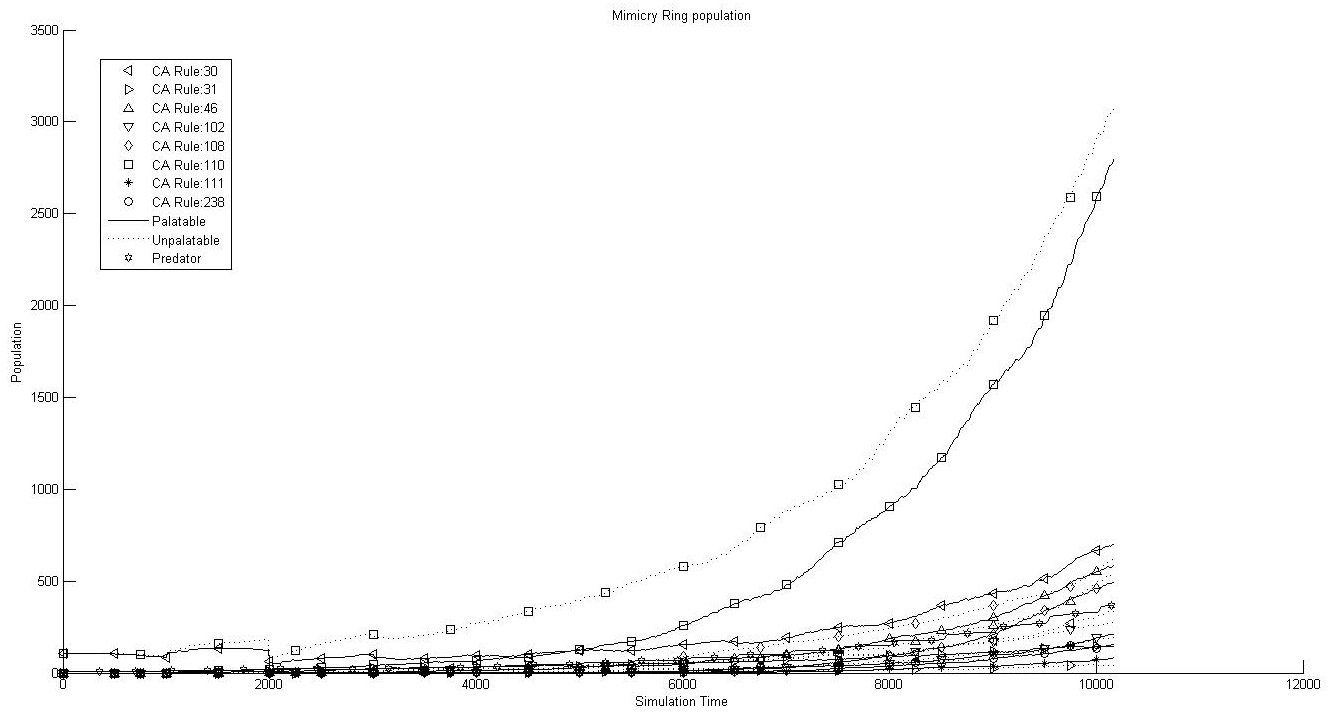
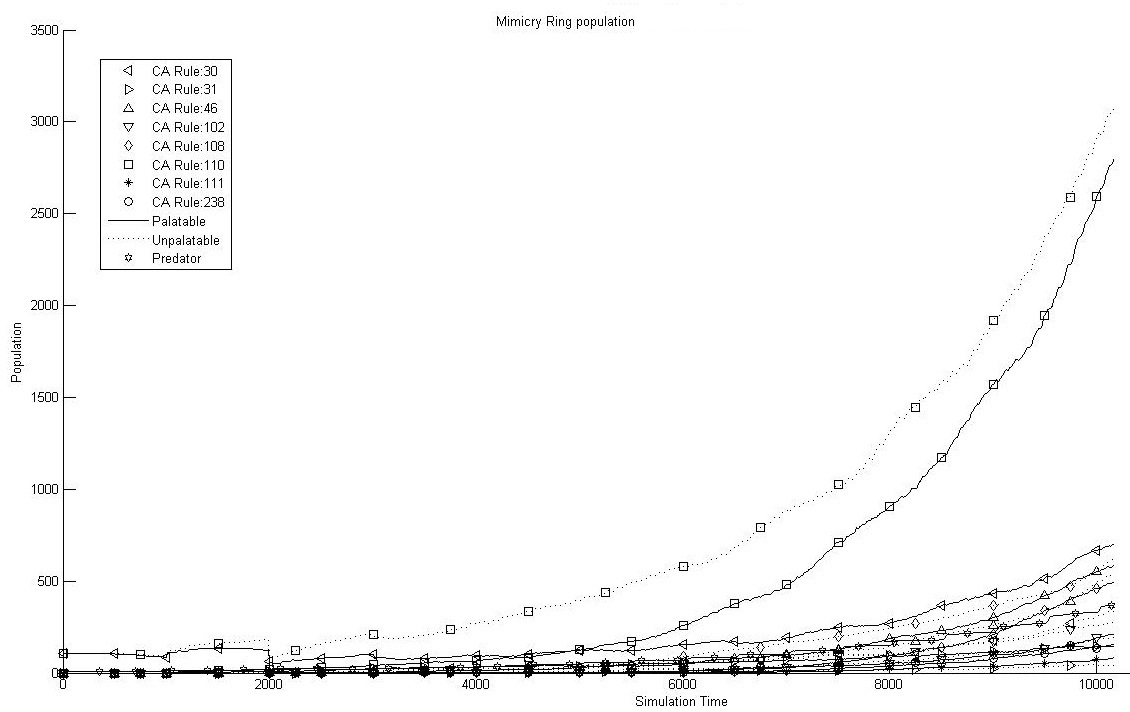
Documentation update

diff --git a/docs/tex/result.tex b/docs/tex/result.tex
@@ -2,13 +2,14 @@
 \chapter{Results and Analysis}
 
 \section{Introduction}
-It is always a challenge to extract and analyze data from an Artificial Life simulation. 
+It is always a challenge to extract and analyze data from an Artificial Life simulation. Data and analysis in this simulation has been concentrated on evaluating whether evolution of mimicry has taken place. This evaluation can be made with the number of different rings that has been created and the size of each of those rings along with the population of palatable and unpalatable species. Also it can be established whether Batesian Mimicry and Mullerian Mimicry has taken effect by analyzing the data set of these populations.
 
-\section{Mimicry Rings Reports}
+\section{Mimicry Ring Reports}
+The mimicry ring reports consists entirely of the population of prey species categorized according to patterns and palatability. Data is stored at every instance of time of the simulation keeping an interval of 10 iterations. As the number of rings that get generated reaches as many as 50 or more, and all the population of ring do not last for the entire simulation, so while storing data we have taken the most populous of the surviving 8 rings to plot. Parameters are mentioned in Table \ref{tab:ring-report-control-parameters}.
 
 \begin{table}[H]
 \centering
-\begin{tabular}{| p{2.0cm} | >{\centering} p{2.2cm} | p{8cm} |}
+\begin{tabular}{| p{2cm} | >{\centering} p{2.2cm} | p{8cm} |}
 	\hline
 		\textbf{Parameter} & \textbf{Value} & \textbf{Description} \\ \hline
 		Mimicry Ring Hamming Distance & 10 \% of the Pattern Size & If the Hamming distance between the pattern of the model and the mimic is 10 \% the size of the pattern then they are considered within the same ring.\\ \hline
@@ -59,12 +60,12 @@ Now as we know the behaviour of Hopfield memory, a recognition result will alway
 % Put the image
 \begin{figure}[H]
 	\centering
-	\includegraphics[scale=0.40]{images/simTime10k-2Prey}
+	\includegraphics[scale=0.50]{images/simTime10k-2Prey}
 	\caption{Population distribution of mimicry rings, initialized with 2 prey species.}
 	\label{fig:plot-2-prey}
 \end{figure}
 
-The plot in Figure \ref{fig:plot-2-prey} is simulation time verses prey population after running it for above 10000 iterations. With the initial configuration in the above table we can observe that multiple rings of prey population has been created. Two prey species are in a ring if their CA pattern have a hamming distance within 10 bits. Population of palatable species has been represented with line curve while population of unpalatable species has been presented with dotted curve. Different signs of squares, triangles and diamonds have been used to distinguish between species of prey population. The simulation was initiated with two prey species having CA rule of 30 and 110 and being palatable and unpalatable consecutively.
+The plot in Figure \ref{fig:plot-2-prey} is simulation time verses prey population after running it for over 10000 iterations. With the initial configuration in the above table we can observe that multiple rings of prey population has been created. Two prey species are in a ring if their CA pattern have a hamming distance within 10 bits. Population of palatable species has been represented with line curve while population of unpalatable species has been presented with dotted curve. Different signs of squares, triangles and diamonds have been used to distinguish between species of prey population. The simulation was initiated with two prey species having CA rule of 30 and 110 and being palatable and unpalatable consecutively.
 
 By closely observing the graph we could see the population of two species have started dropping at around time 500 when the initial predator population reaches this maturity for consuming prey species. At around time 1000 the prey population starts reproducing as the population increases. At around the same time different other species of prey population gets to be born with mutated CA patterns. Over time the population of CA Rule 110 dominates the population as most predators recognizes it as unpalatable. And similarly a population of CA Rule 110 or within the same ring of palatable species starts rising, while at one point overlaps the population of CA Rule 30 (Time: 5000 approx.) which was initially considered as a set of palatable species.
 
@@ -187,7 +188,7 @@ By observing the graph in Figure \ref{fig:plot-4-prey} we can see the two rings 
 \label{tab:config-table-4-more-prey}
 \end{table}
 
-In this run of the simulation some significant parameters have been updated. One is the initial population of prey species. It has been increased from 50 to 150 for each of the prey species increasing the overall population from 200 to 600. Secondly the number of predator population has been increased from 20 to 30. Thirdly, Predator demise age has been increased from 2500 to 7000 while their reproduction interval has been increased from 1400 to 2500. Increasing predator demise age can have an interesting effect, as the longer a predator is present in a simulation, the longer it will be making intelligent decision in terms of consuming its prey and there will increased selection pressure from the entire population of predators. 
+In this run of the simulation some significant parameters have been updated. One is the initial population of prey species. It has been increased from 50 to 150 for each of the prey species, while increasing the overall population from 200 to 600. Secondly the number of predator population has been increased from 20 to 30. Thirdly, Predator demise age has been increased from 2500 to 7000 while their reproduction interval has been increased from 1400 to 2500. Increasing predator demise age can have an interesting effect, as the longer a predator is present in a simulation, the longer it will be making intelligent decision in terms of consuming its prey and there will be increased selection pressure from the entire population of predators. 
 
 \begin{figure}[H]
 	\centering
@@ -208,7 +209,6 @@ Some very interesting diversity of rings can be observed in the simulation for u
 The total number of rings had much increment in this run compared to the previous one. To summarize we can observe increased diversity of prey population and much more interaction between predators and prey.
 
 \section{Initial population with six prey species}
-
 \begin{table}[H]
 \centering
 \begin{tabular}{|l|l|c|c|l|c|}
@@ -239,12 +239,16 @@ The total number of rings had much increment in this run compared to the previou
 \label{tab:config-table-6-prey}
 \end{table}
 
+To evaluate the simulation at a more complex level we increase the prey population to 900, consisting of 6 different species with very different pattern configuration. Similarly to increase predator-prey interaction we also increase the number of predator population to 30. Predator reproduction interval has been set comparatively lower in this simulation to 2000 iteration similar to the demise age which is set to 5000. As the initial population of prey species is very high, over time we are expecting even larger number of prey species. If predator population does not increase at similar rate there might be a prey population explosion were predator will have no effect on providing selection pressure for the evolution of mimicry. So that is why predator population control parameter has been set to this level. For memory configuration, the minimum number is set to 6, meaning the predator will have to store 6 different prey pattern configuration before starting to make intelligent decision about consuming them. As previously mention this number is always set in accordance with the initial number of different prey configuration. 
+
 \begin{figure}[H]
 	\centering
 	\includegraphics[scale=0.40]{images/simTime10k-6Prey}
 	\caption{Population distribution of mimicry rings, initialized with 6 prey species.}
 	\label{fig:plot-6-prey}
 \end{figure}
+
+With the above set of parameters we can receive the plot of Figure \ref{fig:plot-6-prey}. 
 
 \begin{figure}[H]
 	\centering
@@ -254,7 +258,7 @@ The total number of rings had much increment in this run compared to the previou
 \end{figure}
 
 \section{Initial configuration with only unpalatable species}
-
+\label{sec:init-conf-only-unp}
 \begin{table}[H]
 \centering
 \begin{tabular}{|l|l|c|c|l|c|}
@@ -281,12 +285,16 @@ The total number of rings had much increment in this run compared to the previou
 \label{tab:config-table-4-prey-unpalatable}
 \end{table}
 
+To further observe the effects of mimicry ring we initialize the simulation with four unpalatable population of prey species. As explained earlier the minimum memory configuration is set to 4 as the initial population of prey has four different species. 
+
 \begin{figure}[H]
 	\centering
 	\includegraphics[scale=0.40]{images/simTime-9k-4Prey-unp}
 	\caption{Population distribution of mimicry rings, initialized with 4 prey species all unpalatable.}
 	\label{fig:plot-4-prey-unp}
 \end{figure}
+
+The results according to Figure \ref{fig:plot-4-prey-unp} are expected as it can be observed the population of unpalatable species has prevailed. After nearly 9000 iterations we can see unpalatable species CA rule 55 has prevailed with the most population. Its palatable counter part is following this population. Unpalatable CA Rule 110 and its palatable counter part are also following the above. Similarly the other two species are increasing its population with dominance where the palatable population of deceivers are following them. 
 
 \begin{figure}[H]
 	\centering
@@ -296,6 +304,7 @@ The total number of rings had much increment in this run compared to the previou
 \end{figure}
 
 \section{Initial configuration with only palatable species}
+\label{sec:init-only-palatable-species}
 
 \begin{table}[H]
 \centering
@@ -323,12 +332,16 @@ The total number of rings had much increment in this run compared to the previou
 \label{tab:config-table-4-prey-palatable}
 \end{table}
 
+The parameters for this simulation has been set with exactly the same as in the Table \ref{tab:config-table-4-prey-unpalatable} except all the species are palatable at this point. All predator configuration has also been set to the exactly same as before.
+
 \begin{figure}[H]
 	\centering
 	\includegraphics[scale=0.40]{images/simTime-9k-4Prey-p}
 	\caption{Population distribution of mimicry rings, initialized with 4 prey species all palatable.}
 	\label{fig:plot-4-prey-p}
 \end{figure}
+
+The results for the configuration in Table \ref{tab:config-table-4-prey-palatable} can be observed in Figure \ref{fig:plot-4-prey-p} where all population of prey species have reached its demise at nearly 7000 iterations. By analyzing details we can see, around simulation time 500 all population of species comes to a steady downfall as at this point initial predator species reaches its age for consumption. Around simulation time 1000 all population of prey species start increasing steadily because they reaches the maturity level of reproduction. At iteration time 2000 a sudden drop of prey population because the initial population of prey have reached its demise age at this point. By this time the population of unpalatable species deceiving the palatable ones start increasing, and slowly around time 7000 and onwards the entire population of prey comes to its demise. Predator population, from the beginning of the simulation has taken a very dominant effect. As all the species are palatable, their consumption and reproduction rate is extremely high and it keeps increasing in a geometric rate.
 
 \begin{figure}[H]
 	\centering
@@ -337,9 +350,13 @@ The total number of rings had much increment in this run compared to the previou
 	\label{fig:ringSize8k-4-Prey-p}
 \end{figure}
 
+Observation of mimicry rings also tell us about the results we have seen in the plot of Figure \ref{fig:plot-4-prey-unp}. The number of rings keep increasing but comes to a sudden drop around simulation time 7000 to reach at zero.
+
 \section{Initial configuration with single prey species}
+Until now all experiments have been initialized with both palatable and unpalatable species. The following set of experiments have been done with only a single prey species, for both cases of palatable and unpalatable.
 
 \subsection{Unpalatable}
+\label{subsec:single-prey-unpalatable}
 
 \begin{table}[H]
 \centering
@@ -362,6 +379,8 @@ The total number of rings had much increment in this run compared to the previou
 \label{tab:config-table-1-prey-unpalatable}
 \end{table}
 
+This configuration has only one unpalatable species, one in each of the 216 cells, equally distributed all over the environment. Also have a set of 10 predators. Their minimum memory configuration has been set to 2 as any value below 2 will not help the Hopfield Network Memory to differentiate between two patterns.
+
 \begin{figure}[H]
 	\centering
 	\includegraphics[scale=0.40]{images/simTime8k-1-unp}
@@ -369,7 +388,7 @@ The total number of rings had much increment in this run compared to the previou
 	\label{fig:plot-1-prey-unp}
 \end{figure}
 
-From unpalatable species we see a bunch of rings with majority of unpalatable species created.
+From Figure \ref{fig:plot-1-prey-unp}, it can be observed, the initial set of unpalatable species is dominant as expected. And the palatable population mimicking that set is following it. Also a bunch of other rings with majority of unpalatable species have been created. Mainly because the initial population started with a bunch of unpalatable species, so their evolving generations have similar behavior as well.
 
 \begin{figure}[H]
 	\centering
@@ -400,6 +419,8 @@ From unpalatable species we see a bunch of rings with majority of unpalatable sp
 \label{tab:config-table-1-prey-palatable}
 \end{table}
 
+This configuration is set exactly as according to Section \ref{subsec:single-prey-unpalatable} but with a single set of palatable species. The population of predators have been reduced from 10 to 8 to avoid elimination of all prey species as it happened in case of Section \ref{sec:init-only-palatable-species}.
+
 \begin{figure}[H]
 	\centering
 	\includegraphics[scale=0.40]{images/simTime9k-1-p}
@@ -407,14 +428,20 @@ From unpalatable species we see a bunch of rings with majority of unpalatable sp
 	\label{fig:plot-1-prey-p}
 \end{figure}
 
-From Palatable population we see a bunch of palatable rings created. 
-Major difference is the total number of prey population created. For unpalatable species total population reaches above 12 thousand. But for palatable species total population reaches nearly above 5000.
+From the initial palatable population we see a bunch of palatable rings created. Major difference from Section \ref{subsec:single-prey-unpalatable} is the total number of prey population created. For the unpalatable species section, total population reaches above 12 thousand. But for palatable species total population reaches nearly above 5000 prey species.
 
 \begin{figure}[H]
 	\centering
 	\includegraphics[scale=0.50]{images/ringSize8k-1Prey-p}
-	\caption{Number of mimicry rings, initialized with 1 prey species palatable.}
+	\caption{Number of mimicry rings, initialized with 1 palatable prey species.}
 	\label{fig:ringSize8k-1-Prey-p}
 \end{figure}
+
+\section{Analysis of Batesian Mimicry}
+For all possible initial conditions above, Batesian mimicry has taken effect. 
+
+
+\section{Analysis of Mullerian Mimicry}
+
 
 \section{Conclusion}

diff --git a/docs/tex/mimicry.tex b/docs/tex/mimicry.tex
@@ -2,10 +2,19 @@
 \chapter{Mimicry}
 
 \section{History}
+Henry W. Bates first published in 1862 his findings about the similarities and dissimilarities between Heliconiinae and Ithomiinae butterflies, after 10 years of research in the Brazilian rain forest. For the next hundred years, it simulated heated discussion among all groups of people, scientists, philosophers, theologians, teachers and amateur naturalists. Bates collected ninety-four pieces of butterfly. He grouped them according to their similar appearance. He found butterflies having similar appearance, exhibiting morphological features which point to completely different species even families. Out of the ninety four species sixty seven are now classified as Ithomiinae, while twenty seven of them are Heliconiinae.
 
 \section{Batesian Mimicry}
+Even though Heliconiids are conspicuously colored, they are extremely abundant. They were also slow in mobility. Still predators in the surrounding area, mostly insectivorous birds do not prey on them, because of their inedible and unpalatable nature. Also because of this phenomenon other edible and palatable species such as ithomiinae and pieridae, pretend to be heliconiids and thus enjoy protection.
+
+Repulsive animals, such as heliconiids are very conspicuously colored. Having this noticeable property, they are easily recalled by predators. Their wing pattern works as a warning to them. Once a predator has the knowledge of their inedible and unpalatable property, they would probably never attempt to try it again. As this is true, if any organism within close family and species, but being edible and having a deceptive resemblance to those conspicuously colored species will be avoided by the predators. Wickler \cite{wickler1986} expresses,
+\begin{quote}
+``Such unpalatable appearing and yet edible animals thus possess a false warning pattern, they 'act a part'. An actor is a mime, and so the representation of a false warning pattern was called \textit{mimicry}. Since Bates was the first to point out this phenomenon, it has received the name \textit{Batesian Mimicry} in his honor."
+\end{quote}
+In general, the animal which is avoided by predator for unpalatable behavior is called the \textbf{model} and the imitating animal is called the \textbf{mimic}.
 
 \section{Mullerian Mimicry}
+Bates was not able to explain some phenomenon of mimicry. Occasionally two inedible unrelated butterfly species are amazingly similar in appearance. An explanation for this was provided by Fritz Muller in 1878. Like Bates, Muller observed and caught butterflies in Brazil. When there are multiple inedible species it is hard for predators to recognize each of them to know which one to consume and which one to avoid. Because of predator's limited memory, all these species still loose their number even after being inedible. So to save this loss, and to prevent more sacrifice of their own kind, inedible species from different family also tend to evolve to have similar appearance. This phenomenon is referred to as Mullerian Mimicry in the name of Fritz Muller.
 
 \section{Formation of Mimicry Rings}
 
